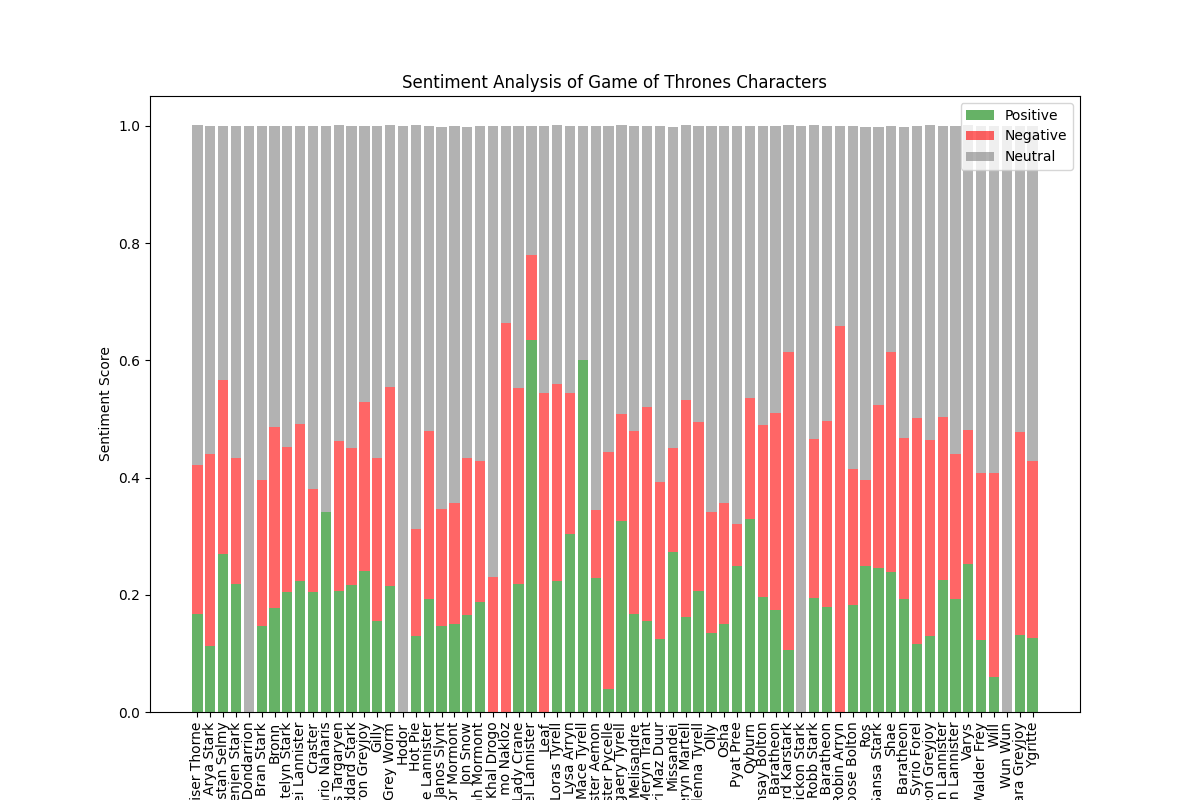
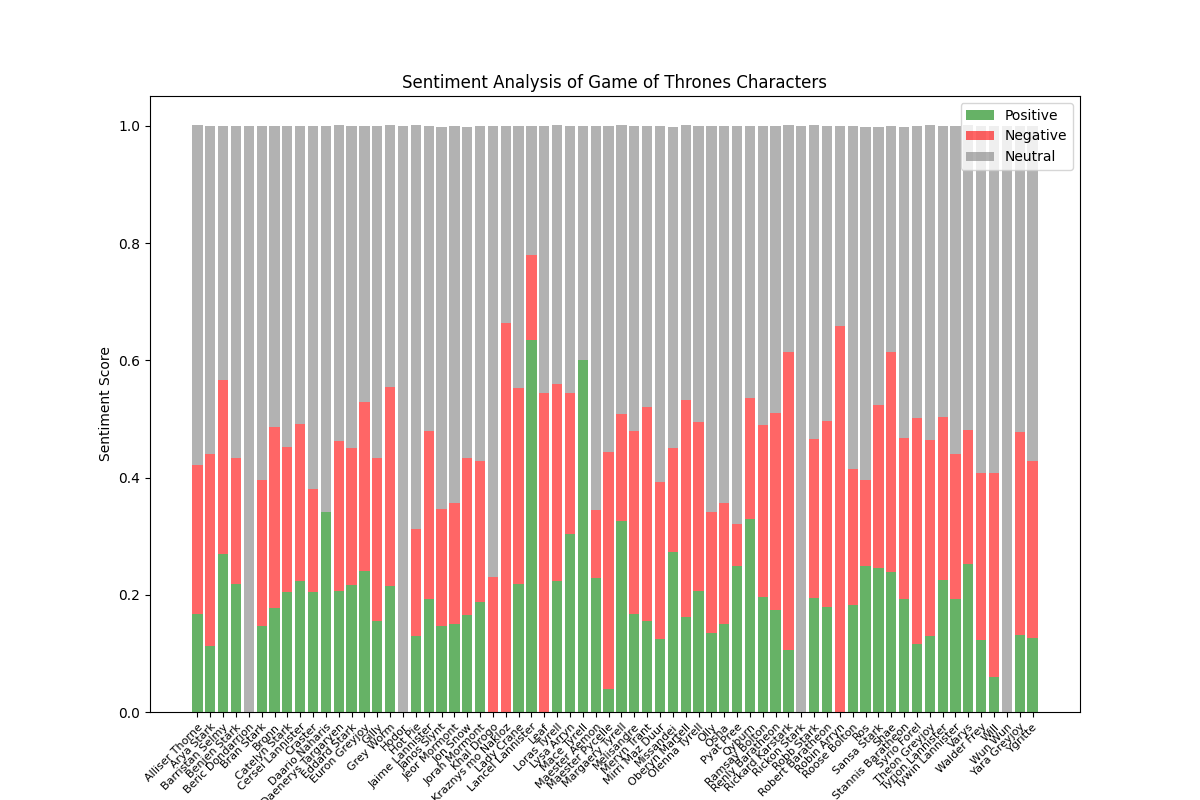
update

Changed region(s): [[0.1233, 0.9062, 0.8633, 1.0]]

diff --git a/character_specific/character_sentiment.py b/character_specific/character_sentiment.py
@@ -58,7 +58,7 @@ plt.bar(sentiment_df.index, sentiment_df['Neutral'], color='gray', alpha=0.6, bo
 plt.xlabel('Character')
 plt.ylabel('Sentiment Score')
 plt.title('Sentiment Analysis of Game of Thrones Characters')
-plt.xticks(rotation=90)
+plt.xticks(rotation=45, ha='right' , rotation_mode='anchor', fontsize = 8)
 plt.legend()
 
 os.makedirs('sentiment_analysis', exist_ok=True)
